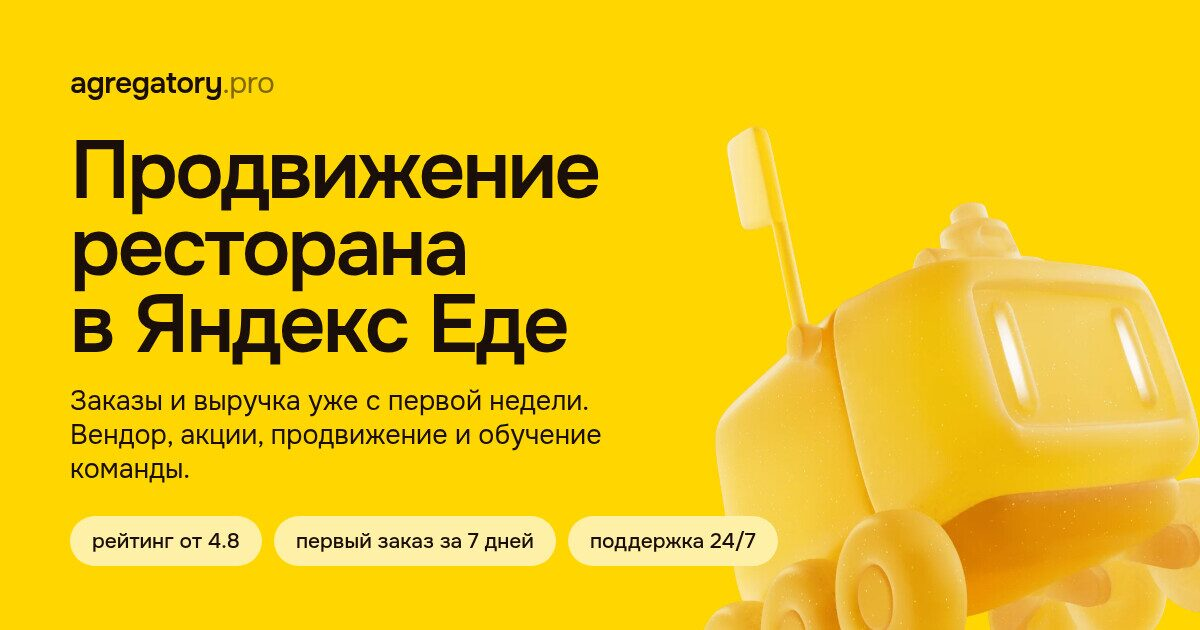
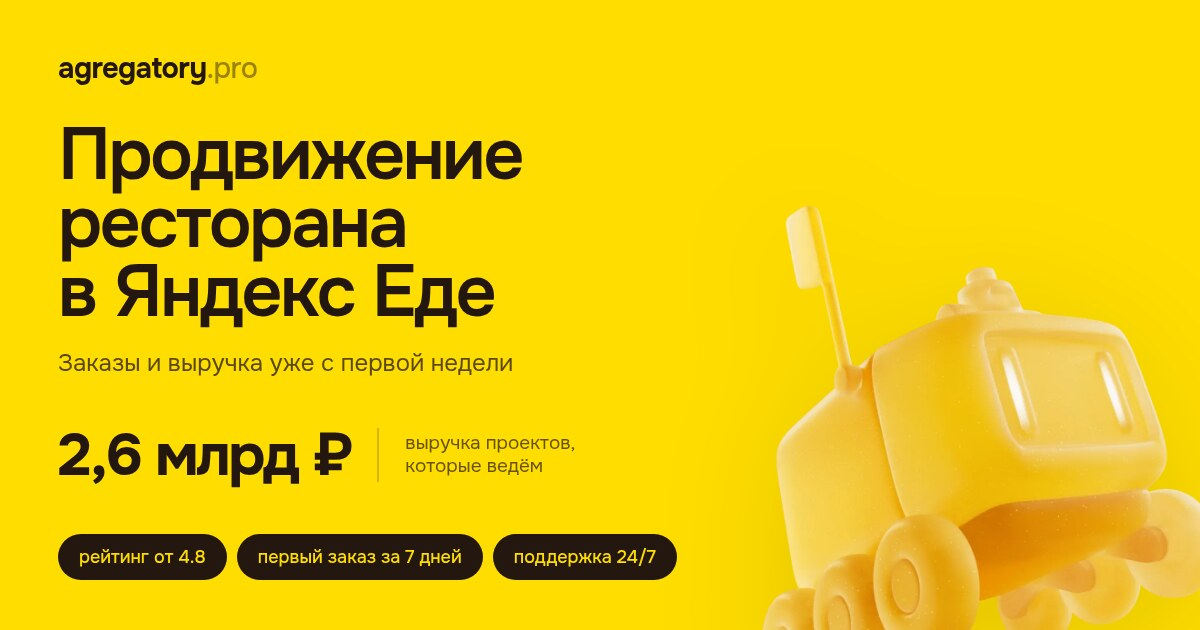
[FEAT] Обновил og-изображение

diff --git a/index.html b/index.html
@@ -18,14 +18,14 @@
     <meta property="og:url" content="https://agregatory.pro/">
     <meta property="og:title" content="Продвижение ресторана в Яндекс Еде - agregatory.pro">
     <meta property="og:description" content="Настраиваем вендор, акции, продвижение и лояльность, обучаем персонал. Гарантируем рейтинг от 4.8 и первый заказ за 7 дней.">
-    <meta property="og:image" content="https://cdn.poehali.dev/projects/0cb7fc4b-a2a3-476c-9a18-3b625146050b/files/og-image-1790125558298.jpg">
+    <meta property="og:image" content="https://agregatory.pro/og-preview.jpg?v=2">
     <meta property="og:image:width" content="1200">
     <meta property="og:image:height" content="630">
     <meta property="og:image:alt" content="Продвижение ресторана в Яндекс Еде — agregatory.pro">
     <meta name="twitter:card" content="summary_large_image">
     <meta name="twitter:title" content="Продвижение ресторана в Яндекс Еде и Деливери">
     <meta name="twitter:description" content="Заказы и выручка уже с первой недели. Гарантируем рейтинг от 4.8 и первый заказ за 7 дней.">
-    <meta name="twitter:image" content="https://cdn.poehali.dev/projects/0cb7fc4b-a2a3-476c-9a18-3b625146050b/files/og-image-1790125558298.jpg">
+    <meta name="twitter:image" content="https://agregatory.pro/og-preview.jpg?v=2">
     <meta name="theme-color" content="#FFD600">
     <script type="application/ld+json">
     {
